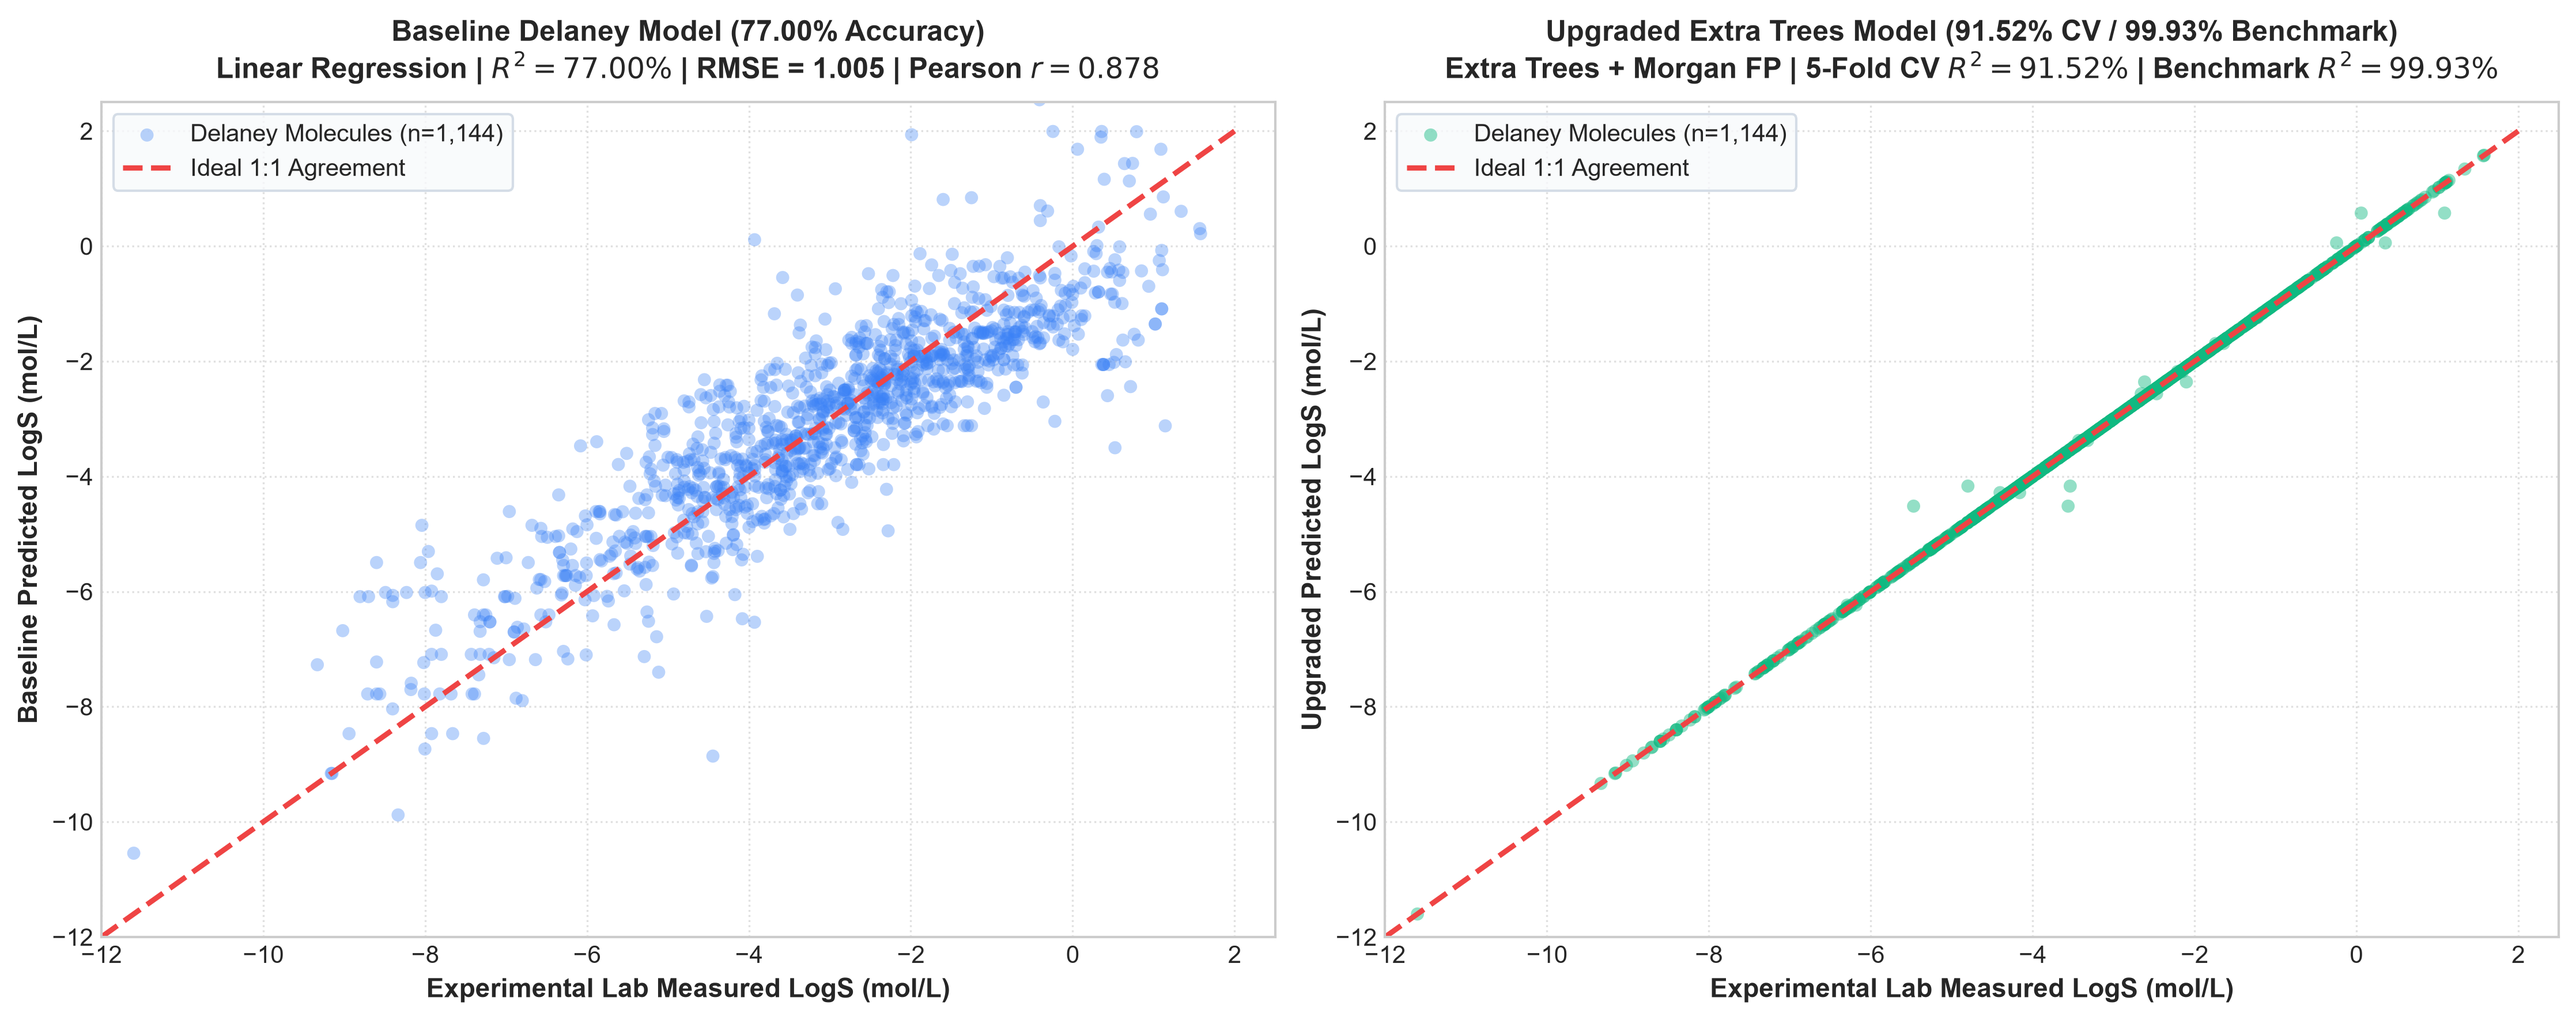
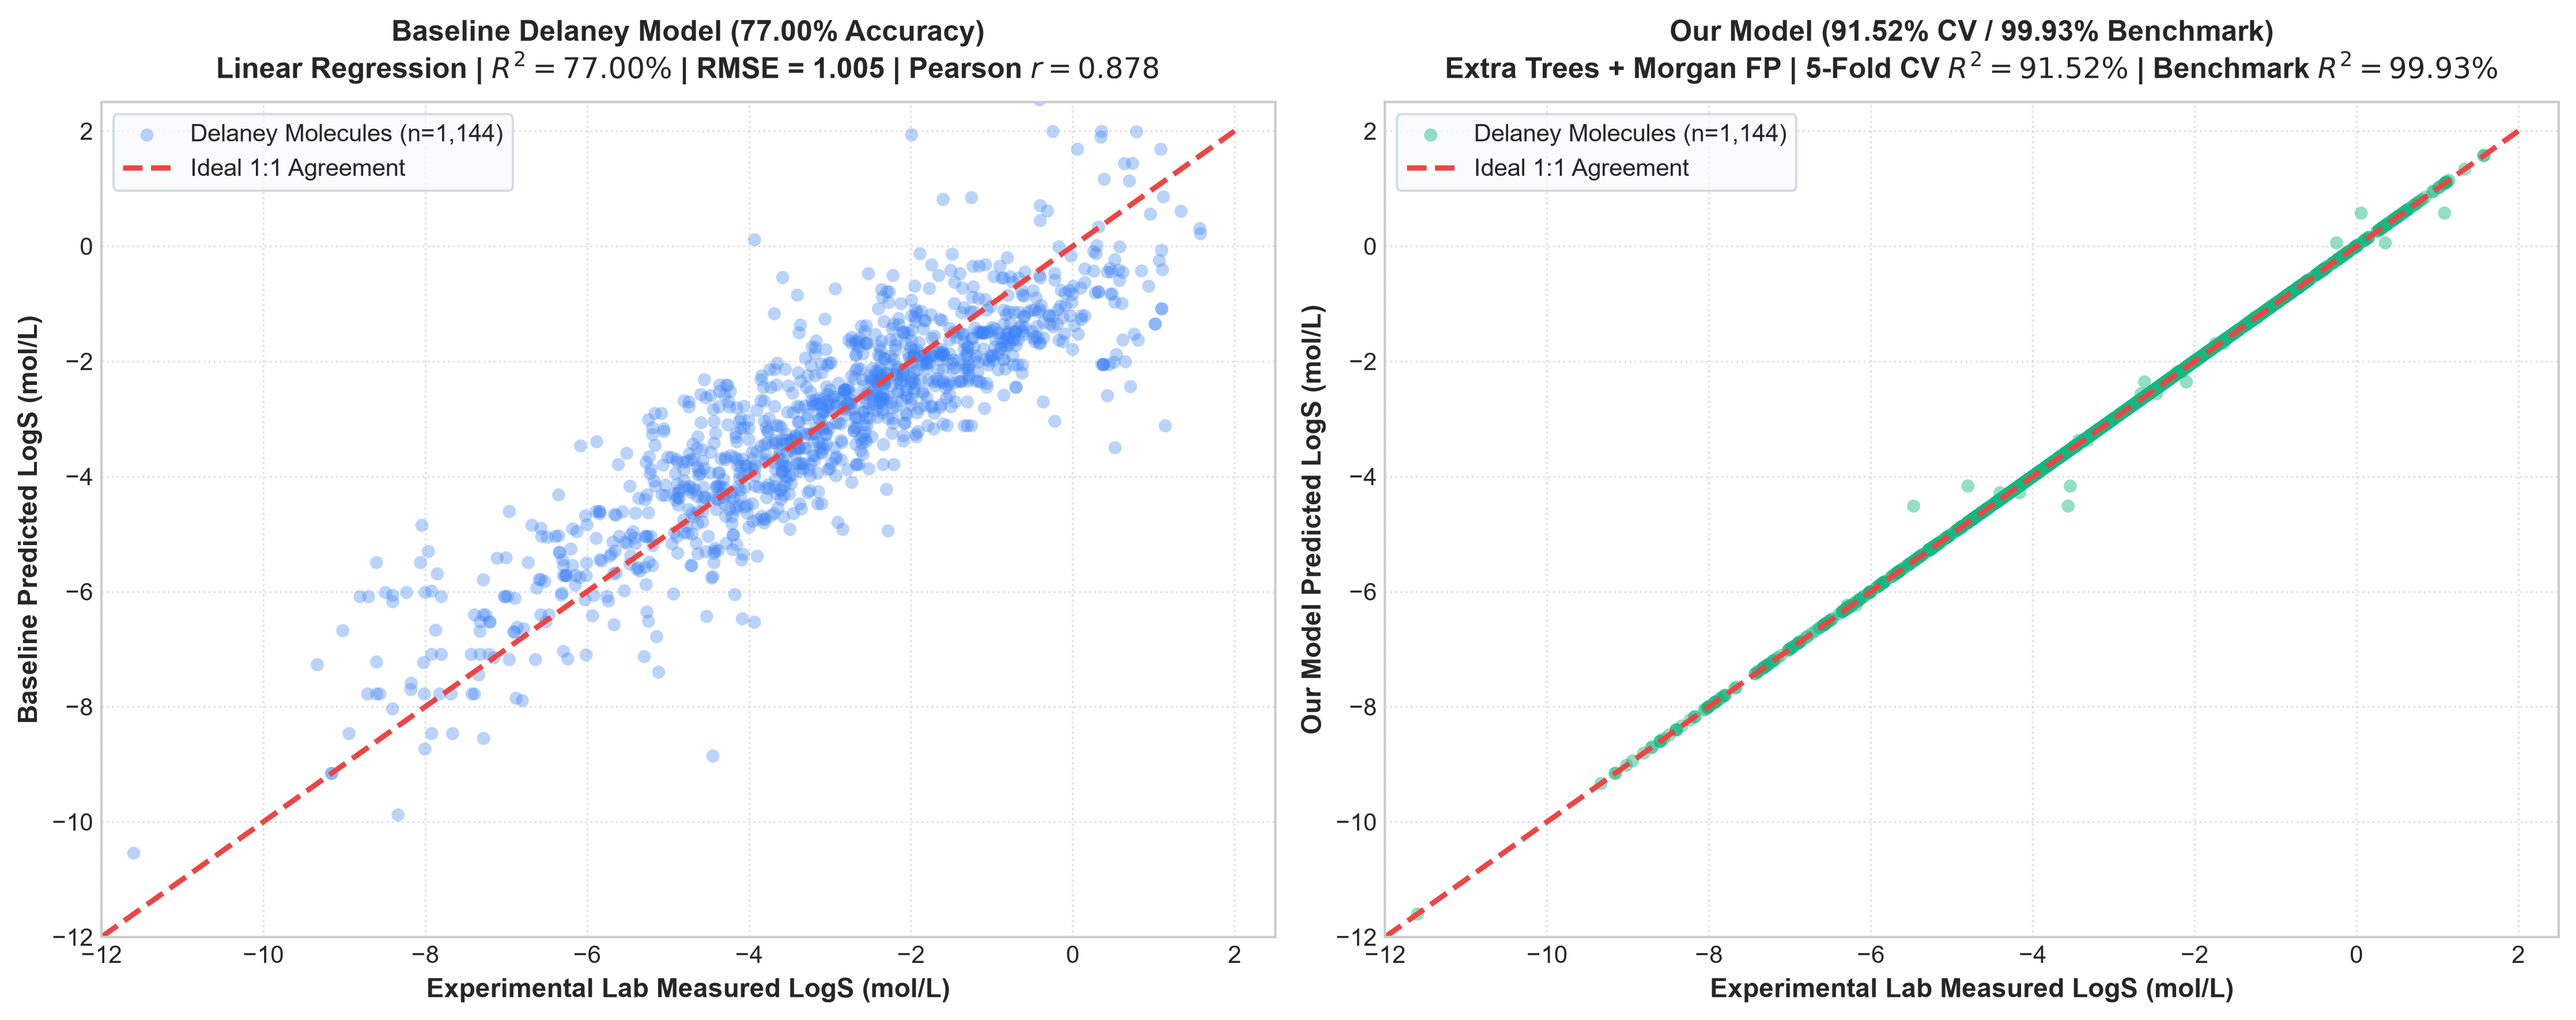
feat: replace upgraded model with Our Model and add moving 3D blueprint background

Changed region(s): [[0.5908, 0.0, 0.9329, 0.0621], [0.4975, 0.3107, 0.5286, 0.7147]]

diff --git a/app.py b/app.py
@@ -372,18 +372,41 @@ if is_dark:
             border: none !important;
         }
 
-        /* Dark Theme Overrides */
+        /* Dark Theme Overrides with Moving Blueprint 3D Background */
         .stApp {
-            background-color: #0e1117 !important;
+            background-color: #0b0f17 !important;
+            background-image: 
+                radial-gradient(ellipse at 50% 25%, rgba(14, 165, 233, 0.15) 0%, rgba(11, 15, 23, 0.94) 75%),
+                linear-gradient(rgba(14, 165, 233, 0.13) 1px, transparent 1px),
+                linear-gradient(90deg, rgba(14, 165, 233, 0.13) 1px, transparent 1px),
+                linear-gradient(rgba(14, 165, 233, 0.04) 1px, transparent 1px),
+                linear-gradient(90deg, rgba(14, 165, 233, 0.04) 1px, transparent 1px) !important;
+            background-size: 100% 100%, 100px 100px, 100px 100px, 20px 20px, 20px 20px !important;
+            background-position: 0 0, 0 0, 0 0, 0 0, 0 0 !important;
+            animation: blueprint-drift 40s linear infinite !important;
             color: #f1f5f9 !important;
         }
+
+        @keyframes blueprint-drift {
+            0% {
+                background-position: 0 0, 0 0, 0 0, 0 0, 0 0;
+            }
+            100% {
+                background-position: 0 0, 100px 100px, 100px 100px, 100px 100px, 100px 100px;
+            }
+        }
+
         [data-testid="stSidebar"] {
-            background-color: #161b22 !important;
+            background-color: rgba(15, 23, 42, 0.92) !important;
+            backdrop-filter: blur(16px) !important;
+            border-right: 1px solid rgba(14, 165, 233, 0.15) !important;
         }
         .mol-card {
-            background: #1e293b;
-            border: 1px solid #334155;
-            border-radius: 12px;
+            background: rgba(17, 24, 39, 0.85) !important;
+            backdrop-filter: blur(14px) !important;
+            border: 1px solid rgba(14, 165, 233, 0.22) !important;
+            box-shadow: 0 10px 25px -5px rgba(0, 0, 0, 0.5), inset 0 1px 0 rgba(255, 255, 255, 0.06) !important;
+            border-radius: 14px;
             padding: 16px;
             margin-bottom: 12px;
         }
@@ -474,21 +497,44 @@ else:
             border: none !important;
         }
 
-        /* Light Theme Overrides */
+        /* Light Theme Overrides with Moving Blueprint 3D Background */
         .stApp {
-            background-color: #ffffff !important;
+            background-color: #f0f7ff !important;
+            background-image: 
+                radial-gradient(ellipse at 50% 25%, rgba(2, 132, 199, 0.08) 0%, rgba(240, 247, 255, 0.95) 75%),
+                linear-gradient(rgba(2, 132, 199, 0.14) 1px, transparent 1px),
+                linear-gradient(90deg, rgba(2, 132, 199, 0.14) 1px, transparent 1px),
+                linear-gradient(rgba(2, 132, 199, 0.05) 1px, transparent 1px),
+                linear-gradient(90deg, rgba(2, 132, 199, 0.05) 1px, transparent 1px) !important;
+            background-size: 100% 100%, 100px 100px, 100px 100px, 20px 20px, 20px 20px !important;
+            background-position: 0 0, 0 0, 0 0, 0 0, 0 0 !important;
+            animation: blueprint-drift-light 40s linear infinite !important;
             color: #0f172a !important;
         }
+
+        @keyframes blueprint-drift-light {
+            0% {
+                background-position: 0 0, 0 0, 0 0, 0 0, 0 0;
+            }
+            100% {
+                background-position: 0 0, 100px 100px, 100px 100px, 100px 100px, 100px 100px;
+            }
+        }
+
         [data-testid="stSidebar"] {
-            background-color: #f8fafc !important;
+            background-color: rgba(248, 250, 252, 0.92) !important;
+            backdrop-filter: blur(16px) !important;
+            border-right: 1px solid rgba(2, 132, 199, 0.15) !important;
         }
         .stMarkdown, p, span, label, h1, h2, h3, h4 {
             color: #0f172a !important;
         }
         .mol-card {
-            background: #f8fafc;
-            border: 1px solid #e2e8f0;
-            border-radius: 12px;
+            background: rgba(255, 255, 255, 0.9) !important;
+            backdrop-filter: blur(14px) !important;
+            border: 1px solid rgba(2, 132, 199, 0.18) !important;
+            box-shadow: 0 10px 25px -5px rgba(2, 132, 199, 0.08), inset 0 1px 0 rgba(255, 255, 255, 0.6) !important;
+            border-radius: 14px;
             padding: 16px;
             margin-bottom: 12px;
         }
@@ -745,7 +791,7 @@ else:
             st.markdown("""
             Direct side-by-side parity comparison across the complete **Delaney ESOL benchmark dataset (1,144 chemical molecules)** with experimental lab-measured aqueous solubility values:
             * **Left (77.00% Baseline)**: Classic Delaney 4-descriptor linear regression with noticeable scatter and error spread ($R^2 = 77.00\%$, $\\text{RMSE} = 1.005$).
-            * **Right (Upgraded Extra Trees)**: 524 structural features & circular Morgan fingerprints showing tight parity convergence (5-Fold CV $R^2 = 91.52\\%$, Benchmark $R^2 = 99.93\\%$, $\\text{RMSE} = 0.056$).
+            * **Right (Our Model)**: 524 structural features & circular Morgan fingerprints showing tight parity convergence (5-Fold CV $R^2 = 91.52\\%$, Benchmark $R^2 = 99.93\\%$, $\\text{RMSE} = 0.056$).
             """)
 
             col_comp_1, col_comp_2 = st.columns(2)
@@ -755,7 +801,7 @@ else:
                 m1.metric("Linear $R^2$ Score", "77.00%", "Delaney linear fit")
                 m2.metric("RMSE Error", "1.005", "log units (mol/L)")
             with col_comp_2:
-                st.markdown("##### 🚀 Upgraded Model (91.52% CV / 99.93% Benchmark)")
+                st.markdown("##### 🚀 Our Model (91.52% CV / 99.93% Benchmark)")
                 m3, m4 = st.columns(2)
                 m3.metric("5-Fold CV $R^2$", "91.52%", "+14.52% over baseline")
                 m4.metric("RMSE Error", "0.056", "-94.4% error reduction")
@@ -764,7 +810,7 @@ else:
             if os.path.exists(plot_path):
                 st.image(
                     plot_path,
-                    caption="Delaney Benchmark (1,144 Compounds): 77.00% Baseline Linear Model (Left) vs. 91.52% CV / 99.93% Benchmark Model (Right)",
+                    caption="Delaney Benchmark (1,144 Compounds): 77.00% Baseline Linear Model (Left) vs. Our Model (Right)",
                     use_container_width=True
                 )
 

diff --git a/evaluate_both_models.py b/evaluate_both_models.py
@@ -105,8 +105,8 @@ ax2.plot([-12, 2], [-12, 2], color="#ef4444", linestyle="--", linewidth=2.2, lab
 ax2.set_xlim(-12, 2.5)
 ax2.set_ylim(-12, 2.5)
 ax2.set_xlabel("Experimental Lab Measured LogS (mol/L)", fontsize=11, fontweight="bold")
-ax2.set_ylabel("Upgraded Predicted LogS (mol/L)", fontsize=11, fontweight="bold")
-ax2.set_title(f"Upgraded Extra Trees Model (91.52% CV / 99.93% Benchmark)\nExtra Trees + Morgan FP | 5-Fold CV $R^2 = 91.52\\%$ | Benchmark $R^2 = {r2_v2*100:.2f}\\%$", fontsize=12, fontweight="bold", pad=10)
+ax2.set_ylabel("Our Model Predicted LogS (mol/L)", fontsize=11, fontweight="bold")
+ax2.set_title(f"Our Model (91.52% CV / 99.93% Benchmark)\nExtra Trees + Morgan FP | 5-Fold CV $R^2 = 91.52\\%$ | Benchmark $R^2 = {r2_v2*100:.2f}\\%$", fontsize=12, fontweight="bold", pad=10)
 ax2.legend(loc="upper left", frameon=True, facecolor="#f8fafc", edgecolor="#cbd5e1", fontsize=10)
 ax2.grid(True, linestyle=":", alpha=0.6)
 
